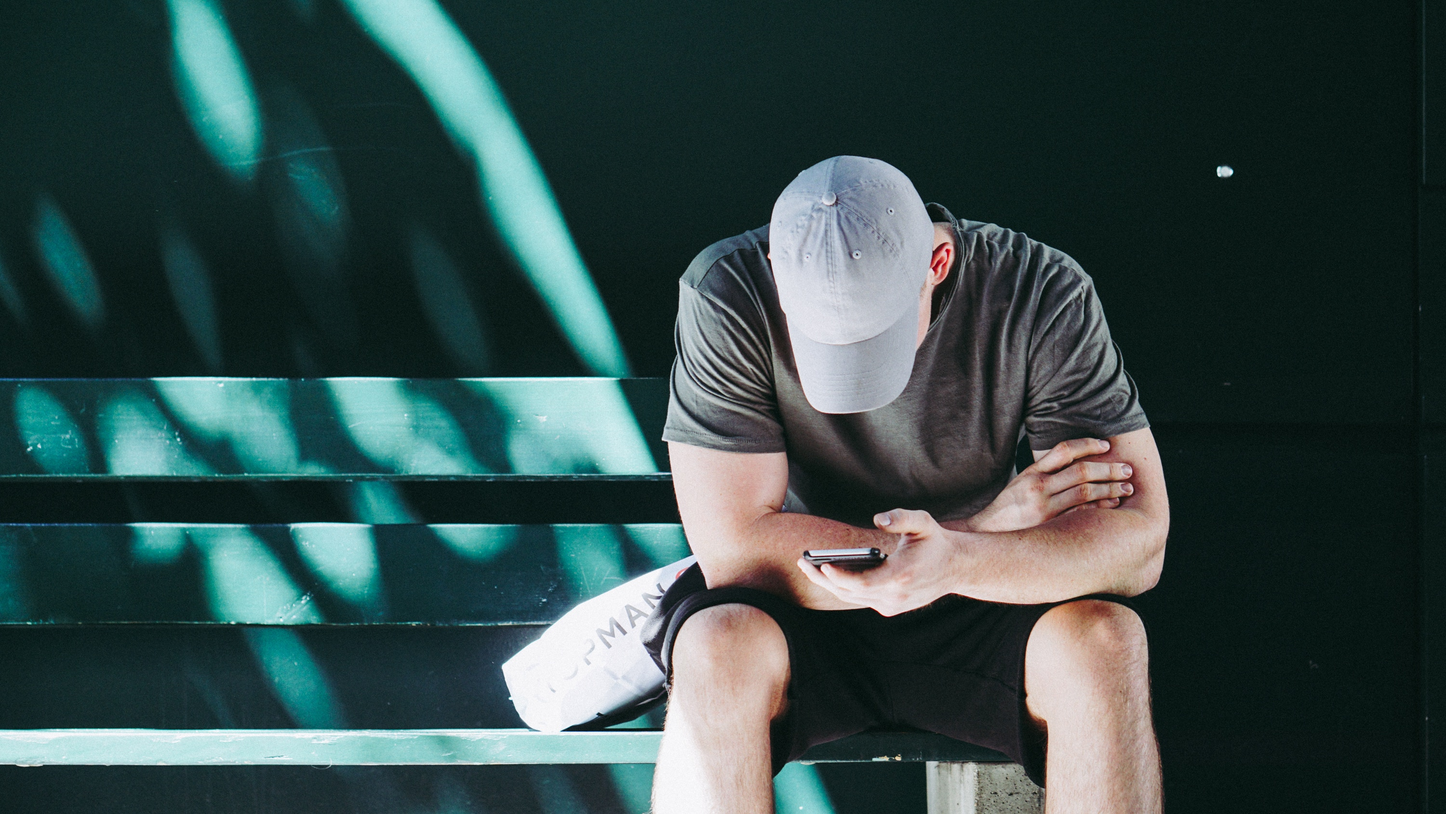
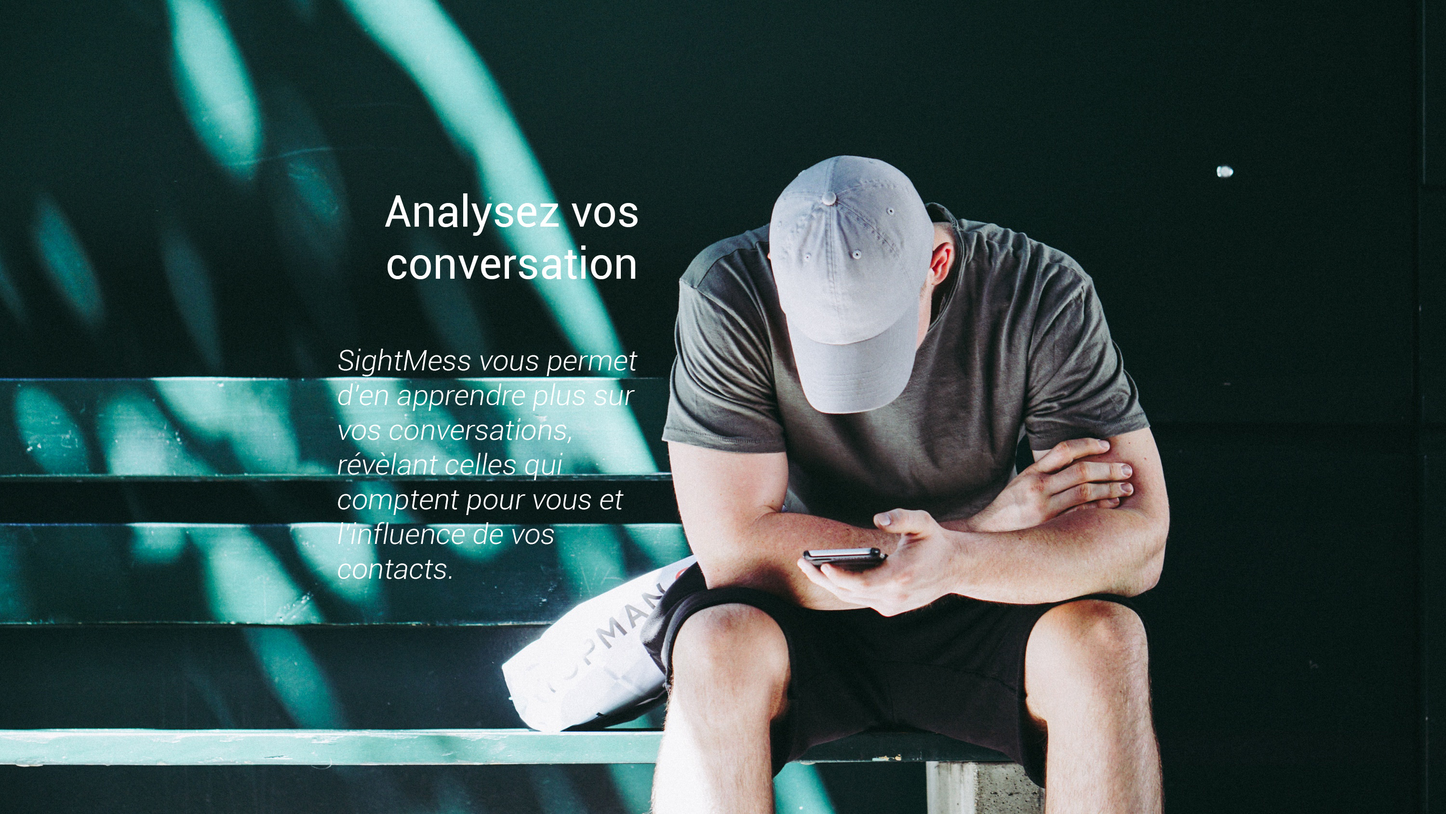
Carrosel2 conv test1

diff --git a/src/app/file-drop-page/file-drop-page.component.scss b/src/app/file-drop-page/file-drop-page.component.scss
@@ -191,15 +191,15 @@ p {
     }
 
     .slide1 {
-      background-image: url("/assets/img/ownstat_car.png");
+      background-image: url("/assets/img/carroselConv.jpg");
       animation: 20s slides-set-1 -0.1s infinite;
     }
     .slide2 {
-      background-image: url("/assets/img/conv_car.png");
+      background-image: url("/assets/img/carroselConv2.jpg");
       animation: 20s slides-set-2 -0.1s infinite;
     }
     .slide3 {
-      background-image: url("/assets/img/profil_car.png");
+      background-image: url("/assets/img/carroselConv3.jpg");
       animation: 20s slides-set-3 -0.1s infinite;
     }
 
@@ -244,7 +244,7 @@ p {
 
       .slides {
         width: 100vw;
-        left: auto;
+        left: 20%;
         right: 0;
       }
     }
@@ -254,17 +254,17 @@ p {
     }
 
     .slide1 {
-      background-image: linear-gradient(to bottom, rgba(200,200,75,0.25) 0, rgba(200,75,75,0.5) 100%), url("/assets/img/ownstat_car.png");
+      background-image: linear-gradient(to bottom, rgba(200,200,75,0.25) 0, rgba(200,75,75,0.5) 100%), url("/assets/img/carroselConv.jpg");
       // background-image: url(../img/slideshow/hero-1.jpg);
       animation: 20s slides-set-1 -0.2s infinite;
     }
     .slide2 {
-      background-image: linear-gradient(to bottom, rgba(200,200,75,0.25) 0, rgba(200,75,75,0.5) 100%), url("/assets/img/conv_car.png");
+      background-image: linear-gradient(to bottom, rgba(200,200,75,0.25) 0, rgba(200,75,75,0.5) 100%), url("/assets/img/carroselConv2.jpg");
       // background-image: url(../img/slideshow/hero-2.jpg);
       animation: 20s slides-set-2 -0.2s infinite;
     }
     .slide3 {
-      background-image: linear-gradient(to bottom, rgba(200,200,75,0.25) 0, rgba(200,75,75,0.5) 100%), url("/assets/img/profil_car.png");
+      background-image: linear-gradient(to bottom, rgba(200,200,75,0.25) 0, rgba(200,75,75,0.5) 100%), url("/assets/img/carroselConv3.jpg");
       // background-image: url(../img/slideshow/hero-3.jpg);
       animation: 20s slides-set-3 -0.2s infinite;
     }

diff --git a/src/app/file-drop-page/file-drop-page.component.html b/src/app/file-drop-page/file-drop-page.component.html
@@ -71,7 +71,7 @@
         </div>
     </div>
       <hr class="overview">
-      <p>Notre site vous permet d’analyser l’ensemble de vos messages pour en faire ressortir la personne que vous êtes vraiment.</p>
+      <p>Ce site vous permet d’analyser l’ensemble de vos messages pour en faire ressortir la personne que vous êtes vraiment.</p>
       <p style="padding-bottom:1%">Vous pourrez explorer des statistiques liées à vos conversations, voir les chiffres clés qui vous caractérisent ou encore en apprendre plus sur vous-même à travers l’élaboration de votre profil Messenger.</p>
     </div>
     <div class="listIcone">
